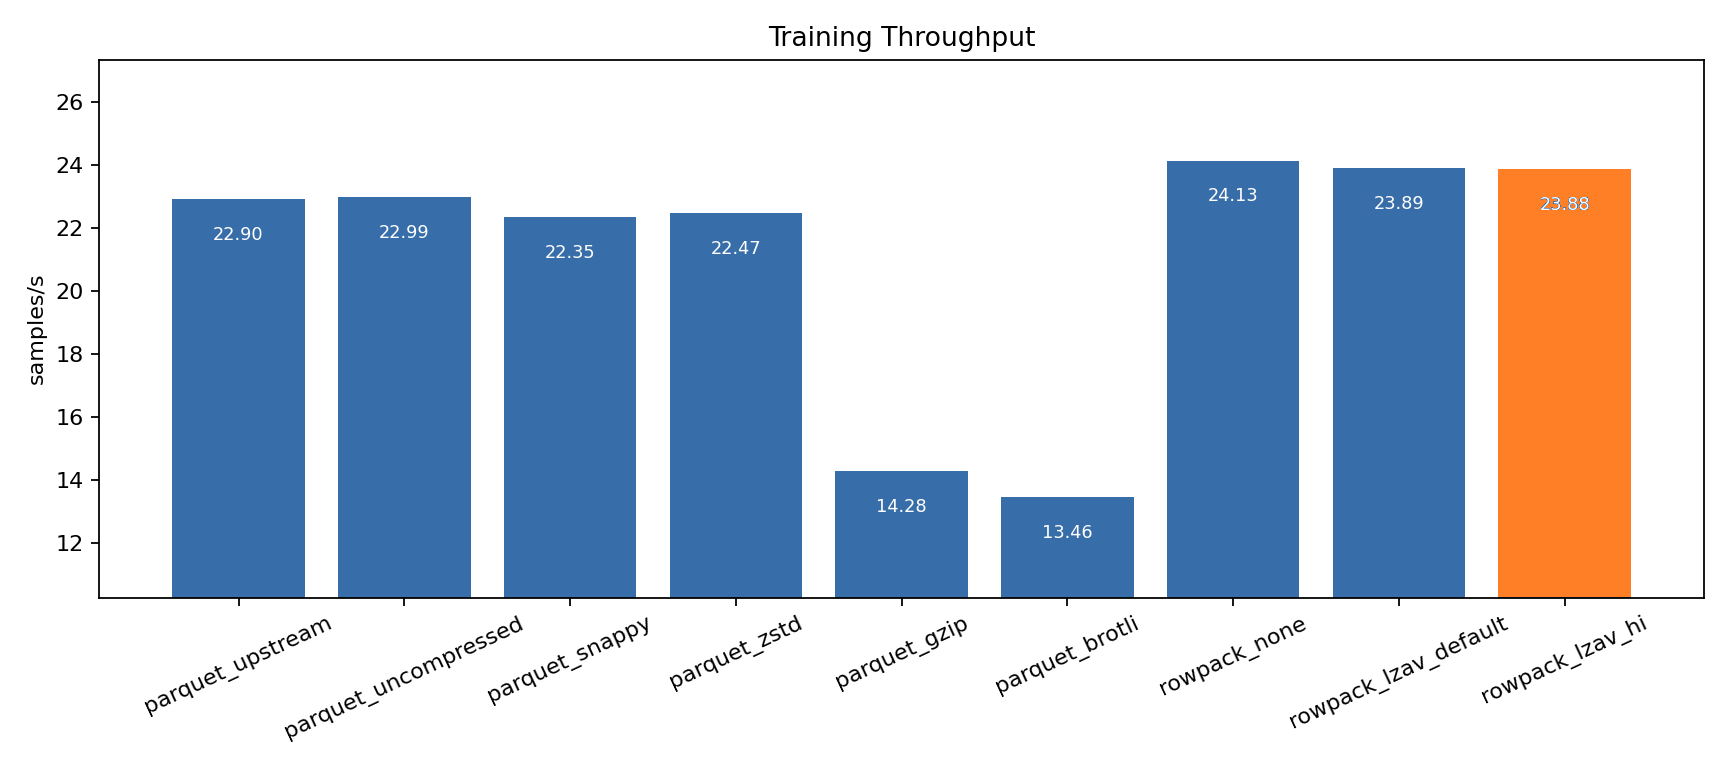
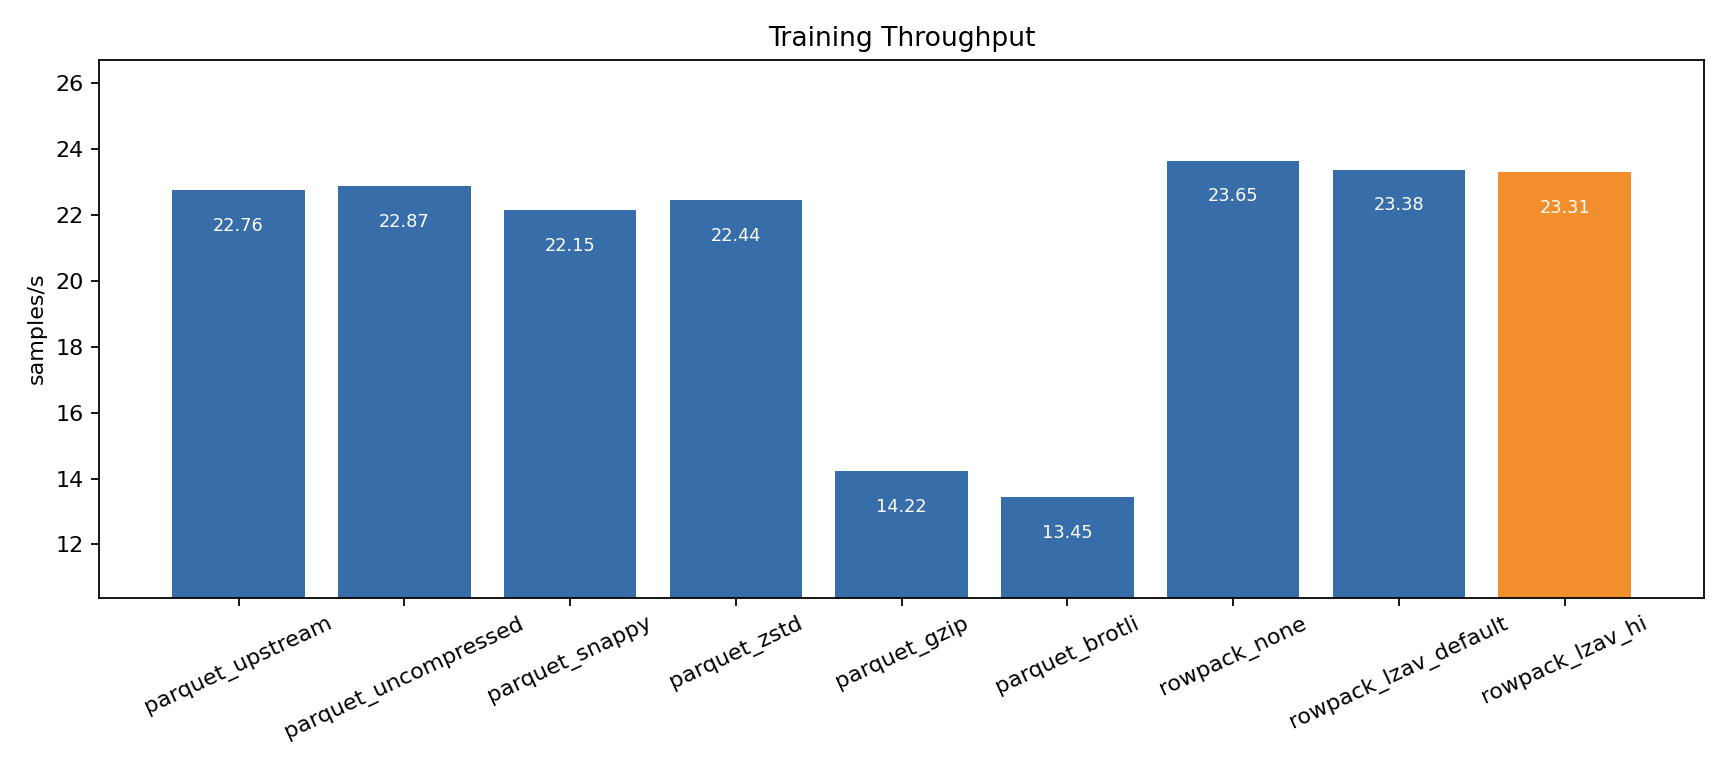
jsonl connversion, row splitting support

diff --git a/convert_parquet.py b/convert_parquet.py
@@ -12,6 +12,7 @@ from pathlib import Path
 from typing import Any, Iterable
 
 from .authoring import MetadataBuilder, RowPackDatasetBuilder
+from .search_index import DocumentIndexBuilder
 
 
 AUTO_IMAGE_COLUMNS = {"image", "images", "img", "imgs"}
@@ -28,6 +29,10 @@ def main(argv: list[str] | None = None) -> int:
     parser.add_argument("--image-base-dir", default=None, help="Base directory for relative image paths stored in Parquet rows")
     parser.add_argument("--name-column", default=None, help="Column to use as the RowPack row name")
     parser.add_argument("--alias-column", action="append", default=[], help="Column to use as non-canonical row aliases")
+    parser.add_argument("--index-column", default=None, help="Column that groups rows into searchable document ranges")
+    parser.add_argument("--index-label-column", action="append", default=[], help="Extra column to search in the document index, such as title or author")
+    parser.add_argument("--index-alias-column", action="append", default=[], help="Column containing alternate document ids/names")
+    parser.add_argument("--index-name", default="documents", help="Metadata search index name")
     parser.add_argument("--dataset-name", default=None, help="Dataset name to store in RowPack metadata")
     parser.add_argument("--description", default=None, help="Dataset description to store in RowPack metadata")
     parser.add_argument("--rows-per-block", type=int, default=32)
@@ -52,6 +57,10 @@ def main(argv: list[str] | None = None) -> int:
         image_base_dir=Path(args.image_base_dir) if args.image_base_dir else None,
         name_column=args.name_column,
         alias_columns=args.alias_column,
+        index_column=args.index_column,
+        index_label_columns=args.index_label_column,
+        index_alias_columns=args.index_alias_column,
+        index_name=args.index_name,
         dataset_name=args.dataset_name,
         description=args.description,
         rows_per_block=args.rows_per_block,
@@ -75,6 +84,10 @@ def convert_parquet_to_rowpack(
     image_base_dir: Path | None = None,
     name_column: str | None = None,
     alias_columns: Iterable[str] = (),
+    index_column: str | None = None,
+    index_label_columns: Iterable[str] = (),
+    index_alias_columns: Iterable[str] = (),
+    index_name: str = "documents",
     dataset_name: str | None = None,
     description: str | None = None,
     rows_per_block: int = 32,
@@ -92,7 +105,17 @@ def convert_parquet_to_rowpack(
     drop_columns = set(drop_columns or set())
     image_columns = set(image_columns or set())
     alias_columns = list(alias_columns)
-    selected_columns = requested_columns(columns, image_columns, name_column, alias_columns)
+    index_label_columns = list(index_label_columns)
+    index_alias_columns = list(index_alias_columns)
+    selected_columns = requested_columns(
+        columns,
+        image_columns,
+        name_column,
+        alias_columns,
+        index_column=index_column,
+        index_label_columns=index_label_columns,
+        index_alias_columns=index_alias_columns,
+    )
     schema = merged_schema(paths, selected_columns)
     metadata = build_metadata(
         paths,
@@ -101,6 +124,10 @@ def convert_parquet_to_rowpack(
         image_columns=image_columns,
         name_column=name_column,
         alias_columns=alias_columns,
+        index_column=index_column,
+        index_label_columns=index_label_columns,
+        index_alias_columns=index_alias_columns,
+        index_name=index_name,
         dataset_name=dataset_name,
         description=description,
         rows_per_block=rows_per_block,
@@ -109,6 +136,7 @@ def convert_parquet_to_rowpack(
     )
 
     rows_written = 0
+    document_index = DocumentIndexBuilder(index_name=index_name) if index_column else None
     with RowPackDatasetBuilder(
         output,
         metadata=metadata,
@@ -133,8 +161,23 @@ def convert_parquet_to_rowpack(
                         row["images"] = images
                     row_name = row_name_from_record(record, name_column)
                     aliases = row_aliases_from_record(record, alias_columns) if row_name is not None else []
-                    builder.append_row(row, name=row_name, aliases=aliases)
+                    row_id = builder.append_row(row, name=row_name, aliases=aliases)
+                    if document_index is not None:
+                        document_index.observe(
+                            row_id,
+                            record.get(index_column),
+                            labels=[record.get(column) for column in index_label_columns],
+                            aliases=[record.get(column) for column in index_alias_columns],
+                            metadata={"source_file": str(path)},
+                        )
                     rows_written += 1
+        if document_index is not None:
+            builder.writer.metadata.setdefault("search_indexes", {})[index_name] = document_index.finish()
+            builder.writer.metadata.setdefault("search_index_schema", {})[index_name] = document_index.metadata_schema(
+                key_column=index_column,
+                label_columns=index_label_columns,
+                alias_columns=index_alias_columns,
+            )
     return rows_written
 
 
@@ -185,12 +228,28 @@ def requested_columns(
     image_columns: set[str],
     name_column: str | None,
     alias_columns: Iterable[str],
+    *,
+    index_column: str | None = None,
+    index_label_columns: Iterable[str] = (),
+    index_alias_columns: Iterable[str] = (),
 ) -> list[str] | None:
     if columns is None:
         return None
-    requested = list(dict.fromkeys([*columns, *image_columns, *(alias_columns or [])]))
+    requested = list(
+        dict.fromkeys(
+            [
+                *columns,
+                *image_columns,
+                *(alias_columns or []),
+                *(index_label_columns or []),
+                *(index_alias_columns or []),
+            ]
+        )
+    )
     if name_column:
         requested.append(name_column)
+    if index_column:
+        requested.append(index_column)
     return list(dict.fromkeys(requested))
 
 
@@ -210,6 +269,10 @@ def build_metadata(
     image_columns: set[str],
     name_column: str | None,
     alias_columns: list[str],
+    index_column: str | None,
+    index_label_columns: list[str],
+    index_alias_columns: list[str],
+    index_name: str,
     dataset_name: str | None,
     description: str | None,
     rows_per_block: int,
@@ -231,6 +294,17 @@ def build_metadata(
         metadata.extra("name_column", name_column)
     if alias_columns:
         metadata.extra("alias_columns", alias_columns)
+    if index_column:
+        metadata.extra(
+            "search_index_config",
+            {
+                "index_name": index_name,
+                "kind": "document_ranges",
+                "key_column": index_column,
+                "label_columns": index_label_columns,
+                "alias_columns": index_alias_columns,
+            },
+        )
 
     for field in schema:
         meaning = "Parquet image payload column" if field.name in image_columns else "Parquet source column"

diff --git a/io.py b/io.py
@@ -29,6 +29,8 @@ from .format import (
     unpack_header,
 )
 from .native import load_native
+from .search_index import find_index_entries as find_search_index_entries
+from .search_index import index_entry_for_key as search_index_entry_for_key
 
 
 class RowPackError(RuntimeError):
@@ -339,6 +341,30 @@ class RowPackReader:
         close = get_close_matches(name, candidates, n=5)
         suffix = f" Did you mean: {', '.join(close)}?" if close else ""
         raise KeyError(f"Unknown RowPack row name {name!r}.{suffix}")
+
+    def search_index(self, name: str = "documents") -> list[dict[str, Any]]:
+        indexes = self.metadata.get("search_indexes") or {}
+        entries = indexes.get(name) if isinstance(indexes, dict) else None
+        if entries is None:
+            return []
+        if not isinstance(entries, list):
+            raise RowPackError(f"RowPack search index {name!r} is not a list")
+        return [dict(entry) for entry in entries if isinstance(entry, dict)]
+
+    def find_index_entries(self, query: str, *, name: str = "documents", limit: int = 10) -> list[dict[str, Any]]:
+        return find_search_index_entries(self.search_index(name), query, limit=limit)
+
+    def index_entry_for_key(self, key: str, *, name: str = "documents") -> dict[str, Any]:
+        return search_index_entry_for_key(self.search_index(name), key)
+
+    def read_index_entry(self, key_or_entry: str | dict[str, Any], *, name: str = "documents") -> list[dict[str, Any]]:
+        entry = key_or_entry if isinstance(key_or_entry, dict) else self.index_entry_for_key(key_or_entry, name=name)
+        try:
+            start = int(entry["row_start"])
+            count = int(entry["row_count"])
+        except (KeyError, TypeError, ValueError) as exc:
+            raise RowPackError(f"RowPack search index entry is missing a valid row range: {entry!r}") from exc
+        return self.read_window(start, count)
 
     def _normalize_index(self, index: int) -> int:
         if index < 0:

diff --git a/authoring.py b/authoring.py
@@ -76,6 +76,18 @@ class MetadataBuilder:
         self.values["image_codec_settings"] = {"codec": codec, **options}
         return self
 
+    def search_index(
+        self,
+        name: str,
+        entries: Iterable[dict[str, Any]],
+        *,
+        schema: dict[str, Any] | None = None,
+    ) -> "MetadataBuilder":
+        self.values.setdefault("search_indexes", {})[name] = [dict(entry) for entry in entries]
+        if schema is not None:
+            self.values.setdefault("search_index_schema", {})[name] = dict(schema)
+        return self
+
     def extra(self, key: str, value: Any) -> "MetadataBuilder":
         self.values[key] = value
         return self

diff --git a/__init__.py b/__init__.py
@@ -1,9 +1,11 @@
 from .authoring import MetadataBuilder, RowPackDatasetBuilder
 from .dataset import NativeCistaVQARows, RowPackRows
 from .io import RowPackError, RowPackReader, RowPackWriter
+from .search_index import DocumentIndexBuilder
 from .torch_dataset import RowPackBlockDataset, RowPackLoaderState
 
 __all__ = [
+    "DocumentIndexBuilder",
     "MetadataBuilder",
     "RowPackError",
     "RowPackBlockDataset",

diff --git a/README.md b/README.md
@@ -16,10 +16,11 @@ RowPack aims at a different hot path: training-time row/window access.
 
 ## Why It Is Useful
 
-- Row-major layout enables speed by matching random-access shuffle training better than column-major
+- Row-major layout enables speed by matching random-access shuffle training with better throughput than column-major
   Parquet files.
 - Header-only C++ with Python bindings and PyTorch dataloader integration.
-- Examples and writer APIs for recording new datasets or converting existing ones to RowPack.
+- Converters to port Parquet or JSONL files to Rowpack format. Includes method to chunk long inputs across multiple rows with searchable index.
+- Friendly examples to get you started quickly.
 - Modern libraries for speed and utility:
   - [nanobind](https://github.com/wjakob/nanobind) (BSD3) for fast Python bindings.
   - [CISTA](https://github.com/felixguendling/cista) (MIT) cast-mode payloads avoid rebuilding large Python dictionaries.
@@ -126,6 +127,13 @@ Useful options:
   balance compression ratio with shuffled random-window read performance.
 - `name-column id`: use a stable Parquet column as the RowPack row name, so
   rows can be addressed by name later.
+- `index-column document_id`: build a searchable document index in metadata.
+  This groups contiguous rows with the same document id into one range, which
+  is useful when a RowPack contains many books, articles, episodes, or robot
+  runs.
+- `index-label-column title`: add extra searchable labels to the document
+  index. Repeat it for fields such as title, author, ISBN, source URL, or
+  dataset split.
 - `columns` and `drop-column`: limit which Parquet columns are read or stored.
   Non-image binary columns are preserved as base64 JSON wrappers so generic
   conversion does not silently throw bytes away.
@@ -135,6 +143,95 @@ uses the same writer API a Parquet converter would use.
 
 For fully custom image handling, use `RowPackDatasetBuilder` directly. That is
 where modes such as `raw_rgb`, `qoi_lossless`, and `jpeg_lossy` are available.
+
+## Convert JSONL To RowPack
+
+JSONL is common for text and instruction datasets. RowPack includes a streaming
+converter that reads one JSON object per line and writes one RowPack row per
+JSONL row by default:
+
+```bash
+python3 -m rowpack.convert_jsonl \
+  --input data/lamini_docs.jsonl \
+  --output build/datasets/lamini_docs.rowpack \
+  --payload-format cista \
+  --block-codec lzav_hi \
+  --native-module-dir build \
+  --overwrite
+```
+
+The small Hugging Face dataset `kotzeje/lamini_docs.jsonl` has a simple
+documentation-QA shape with `question` and `answer` fields. If you export that
+dataset to a local JSONL file, the command above converts it directly.
+
+Useful options mirror the Parquet converter:
+
+- `columns question answer`: keep only selected JSON keys.
+- `drop-column metadata`: remove a noisy key from every row.
+- `image-column image`: move image bytes/paths/structs into RowPack's `images`
+  payload list.
+- `name-column id`: use a stable JSON key as the RowPack row name.
+- `index-column book_id`: group rows into searchable document ranges.
+- `index-label-column title`: make human-friendly titles searchable without
+  requiring them to be the canonical key.
+
+For very long fields, use opt-in splitting:
+
+```bash
+python3 -m rowpack.convert_jsonl \
+  --input data/lamini_docs.jsonl \
+  --output build/datasets/lamini_docs_split.rowpack \
+  --split-column answer \
+  --split-max-chars 2048 \
+  --split-overlap-chars 128 \
+  --overwrite
+```
+
+This is feasible and often useful, but it should be explicit. When a field is
+split, RowPack writes the first chunk with the rest of the source row, then
+writes continuation rows that contain only the split field chunk plus
+`_rowpack_split` metadata. For example, a row shaped like `A, B, C` can become
+`A, B1, C`, then `B2`, then `B3`. The continuation rows record the source file,
+source line, part index, total part count, and split columns so training code
+can decide whether to consume them as independent samples or stitch them back
+together.
+
+## Searchable Document Indexes
+
+RowPack can store optional search indexes in metadata. The built-in converter
+index is deliberately small: it is a document/range catalog, not a full-text
+engine. Each entry says "this book/article/run starts at row N and spans M
+rows", plus searchable labels and aliases.
+
+For a corpus with many books:
+
+```bash
+python3 -m rowpack.convert_jsonl \
+  --input data/books.jsonl \
+  --output build/datasets/books.rowpack \
+  --index-column book_id \
+  --index-label-column title \
+  --index-label-column author \
+  --index-alias-column isbn \
+  --payload-format cista \
+  --block-codec lzav_hi \
+  --native-module-dir build \
+  --overwrite
+```
+
+Read it back by key, title, author, or alias:
+
+```python
+from rowpack import RowPackReader
+
+with RowPackReader("build/datasets/books.rowpack", native_module_dir="build") as reader:
+    matches = reader.find_index_entries("moby", limit=5)
+    book_rows = reader.read_index_entry(matches[0])
+```
+
+The same flags are available on `rowpack.convert_parquet`. When JSONL long-field
+splitting is enabled, continuation rows remain inside the same document range,
+so `read_index_entry(...)` returns all chunks for that document.
 
 ## Create RowPack Directly
 
@@ -277,13 +374,13 @@ access, 32-row windows, 8,192 reproducibly sampled rows, 100 warmup steps, and
 
 | variant | size | samples/s | data wait |
 | --- | ---: | ---: | ---: |
-| parquet_uncompressed | 286.33 MiB | 22.99 | 27.65 ms |
-| parquet_zstd | 262.27 MiB | 22.47 | 28.65 ms |
-| parquet_gzip | 258.02 MiB | 14.28 | 54.10 ms |
-| parquet_brotli | 258.37 MiB | 13.46 | 58.36 ms |
-| rowpack_none | 287.59 MiB | 24.13 | 25.18 ms |
-| rowpack_lzav_default | 266.04 MiB | 23.89 | 25.67 ms |
-| rowpack_lzav_hi | 259.03 MiB | 23.88 | 25.65 ms |
+| parquet_uncompressed | 286.33 MiB | 22.87 | 27.60 ms |
+| parquet_zstd | 262.27 MiB | 22.44 | 28.39 ms |
+| parquet_gzip | 258.02 MiB | 14.22 | 53.82 ms |
+| parquet_brotli | 258.37 MiB | 13.45 | 58.11 ms |
+| rowpack_none | 287.59 MiB | 23.65 | 25.86 ms |
+| rowpack_lzav_default | 266.04 MiB | 23.38 | 26.36 ms |
+| rowpack_lzav_hi | 259.03 MiB | 23.31 | 26.40 ms |
 
 ![Mean data wait](docs/images/mm_infographic_vqa_data_wait_ms.png)
 